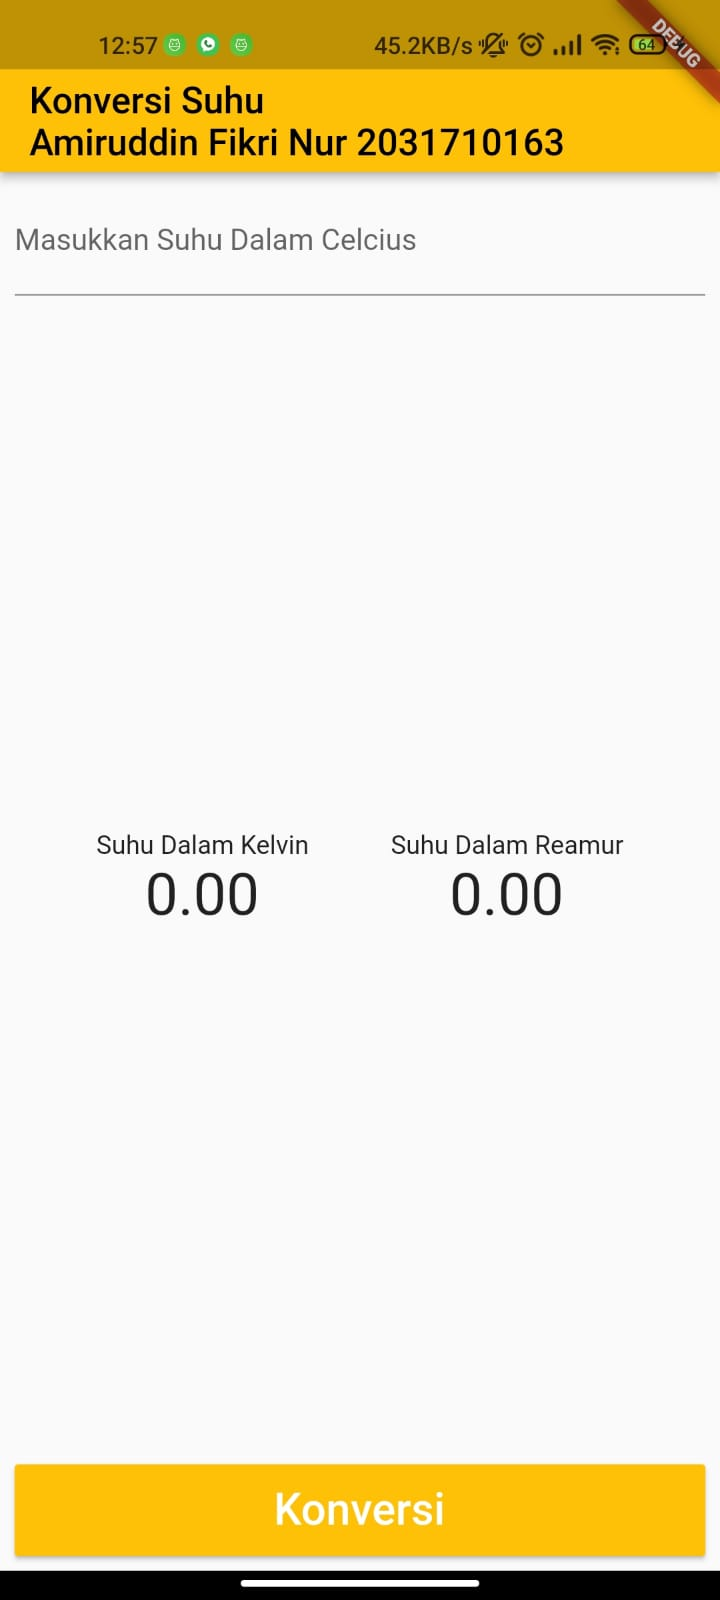
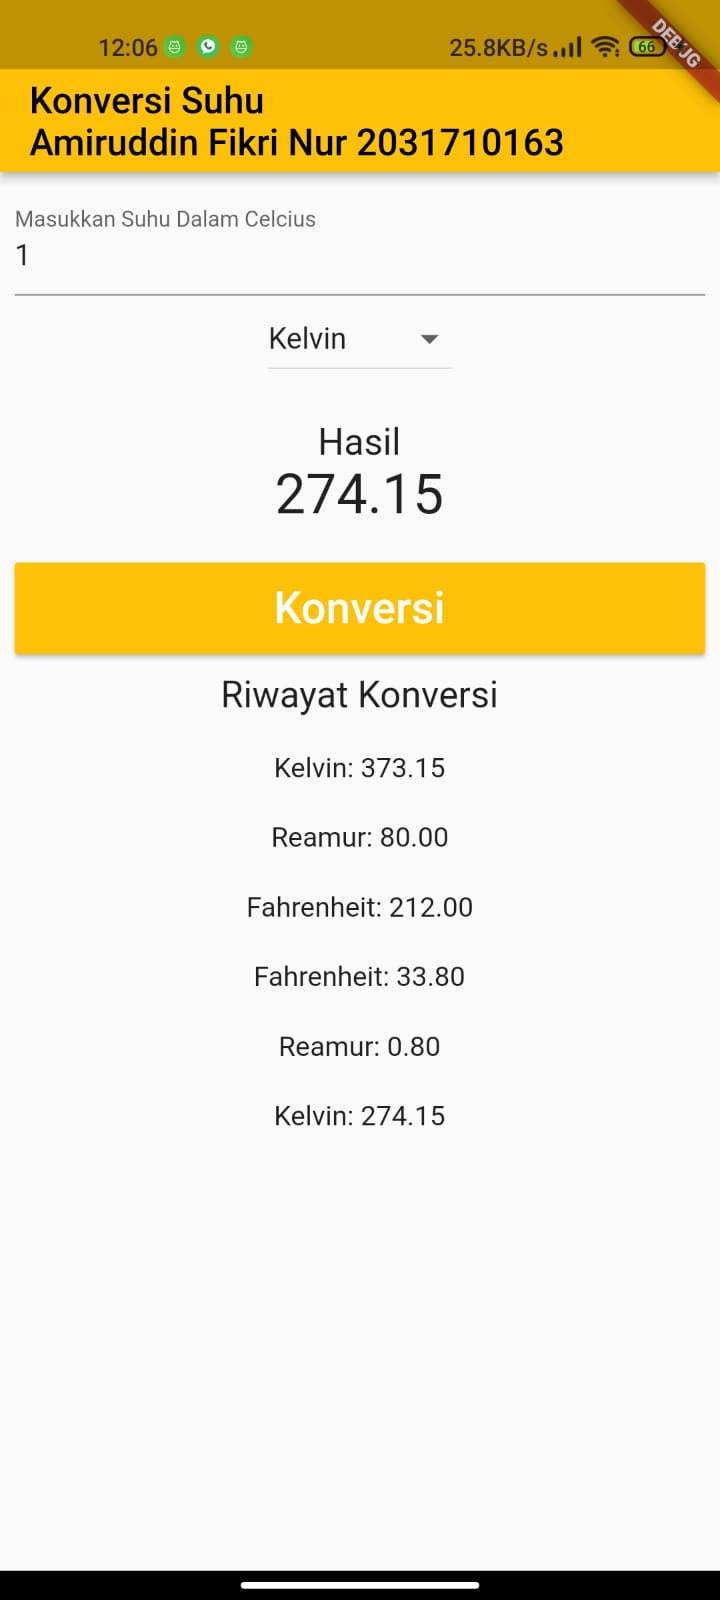
firstcommit

diff --git a/lib/main.dart b/lib/main.dart
@@ -1,5 +1,6 @@
 import 'package:flutter/material.dart';
 import 'package:flutter/services.dart';
+import 'package:konversi_suhu_flutter/result.dart';
 
 void main() {
   runApp(const MyApp());
@@ -16,8 +17,14 @@ class _MyAppState extends State<MyApp> {
   double _inputUser = 0;
   double _kelvin = 0;
   double _reamur = 0;
+  double _fahrenheit = 0;
 
+  var listItem = ["Kelvin", "Reamur", "Fahrenheit"];
   final temperaturController = TextEditingController();
+  String _newValue = "Kelvin";
+  double _result = 0;
+
+  List<String> listViewItem = <String>[];
 
   @override
   void dispose() {
@@ -41,39 +48,27 @@ class _MyAppState extends State<MyApp> {
           body: Container(
             margin: const EdgeInsets.all(8),
             child: Column(
-              mainAxisAlignment: MainAxisAlignment.spaceBetween,
+              mainAxisAlignment: MainAxisAlignment.start,
               children: [
-                TextFormField(
-                  controller: temperaturController,
-                  decoration: const InputDecoration(
-                      labelText: 'Masukkan Suhu Dalam Celcius'),
-                  keyboardType:
-                      const TextInputType.numberWithOptions(decimal: true),
-                  inputFormatters: [
-                    FilteringTextInputFormatter.allow(RegExp(r'[0-9.]'))
-                  ],
-                ),
-                Row(
-                  mainAxisAlignment: MainAxisAlignment.spaceEvenly,
+                Input(temperaturController: temperaturController),
+                Column(
                   children: [
-                    Column(
-                      children: [
-                        const Text("Suhu Dalam Kelvin"),
-                        Text(
-                          _kelvin.toStringAsFixed(2),
-                          style: const TextStyle(fontSize: 32),
-                        ),
-                      ],
+                    DropdownButton<String>(
+                      items: listItem.map((String value) {
+                        return DropdownMenuItem<String>(
+                          value: value,
+                          child: Text(value),
+                        );
+                      }).toList(),
+                      value: _newValue,
+                      onChanged: (String? changeValue) {
+                        setState(() {
+                          _newValue = changeValue!;
+                        });
+                        convert();
+                      },
                     ),
-                    Column(
-                      children: [
-                        const Text("Suhu Dalam Reamur"),
-                        Text(
-                          _reamur.toStringAsFixed(2),
-                          style: const TextStyle(fontSize: 32),
-                        ),
-                      ],
-                    )
+                    Result(result: _result)
                   ],
                 ),
                 MaterialButton(
@@ -89,6 +84,23 @@ class _MyAppState extends State<MyApp> {
                   minWidth: double.maxFinite,
                   height: 50,
                 ),
+                Container(
+                  margin: const EdgeInsets.only(top: 10, bottom: 10),
+                  child: const Text(
+                    "Riwayat Konversi",
+                    style: const TextStyle(fontSize: 20),
+                  ),
+                ),
+                Expanded(
+                    child: Column(
+                        children: listViewItem.map((String value) {
+                  return Container(
+                      margin: const EdgeInsets.all(10),
+                      child: Text(
+                        value,
+                        style: const TextStyle(fontSize: 15),
+                      ));
+                }).toList()))
               ],
             ),
           ),
@@ -96,10 +108,37 @@ class _MyAppState extends State<MyApp> {
   }
 
   void convert() {
-    _inputUser = double.parse(temperaturController.text);
     setState(() {
-      _kelvin = _inputUser + 273.15;
-      _reamur = _inputUser * 0.8;
+      _inputUser = double.parse(temperaturController.text);
+
+      if (_newValue == "Kelvin") {
+        _result = _inputUser + 273.15;
+      } else if (_newValue == "Reamur") {
+        _result = 0.8 * _inputUser;
+      } else {
+        _result = (_inputUser * 1.8) + 32;
+      }
+      listViewItem.add(_newValue + ": " + _result.toStringAsFixed(2));
     });
+  }
+}
+
+class Input extends StatelessWidget {
+  const Input({
+    Key? key,
+    required this.temperaturController,
+  }) : super(key: key);
+
+  final TextEditingController temperaturController;
+
+  @override
+  Widget build(BuildContext context) {
+    return TextFormField(
+      controller: temperaturController,
+      decoration:
+          const InputDecoration(labelText: 'Masukkan Suhu Dalam Celcius'),
+      keyboardType: const TextInputType.numberWithOptions(decimal: true),
+      inputFormatters: [FilteringTextInputFormatter.allow(RegExp(r'[0-9.]'))],
+    );
   }
 }

diff --git a/lib/result.dart b/lib/result.dart
@@ -1,0 +1,30 @@
+import 'package:flutter/material.dart';
+
+class Result extends StatelessWidget {
+  const Result({
+    Key? key,
+    required this.result,
+  }) : super(key: key);
+
+  final double result;
+
+  @override
+  Widget build(BuildContext context) {
+    return Container(
+      margin: const EdgeInsets.only(top: 20, bottom: 20),
+      child: Column(
+        mainAxisAlignment: MainAxisAlignment.center,
+        children: [
+          const Text(
+            "Hasil",
+            style: TextStyle(fontSize: 20),
+          ),
+          Text(
+            result.toStringAsFixed(2),
+            style: const TextStyle(fontSize: 30),
+          )
+        ],
+      ),
+    );
+  }
+}

diff --git a/README.md b/README.md
@@ -1,4 +1,4 @@
-# Tugas 3 
+# Tugas 4 
     Nama    : Amiruddin Fikri Nur
     NIM     : 2031710163
     Kelas   : MI-2C
@@ -8,9 +8,4 @@
 ![Screenshot](img/1.jpeg)
 <br>
 ![Screenshot](img/2.jpeg)
-<br>
-![Screenshot](img/3.jpeg)
-<br>
-![Screenshot](img/4.jpeg)
-
 
